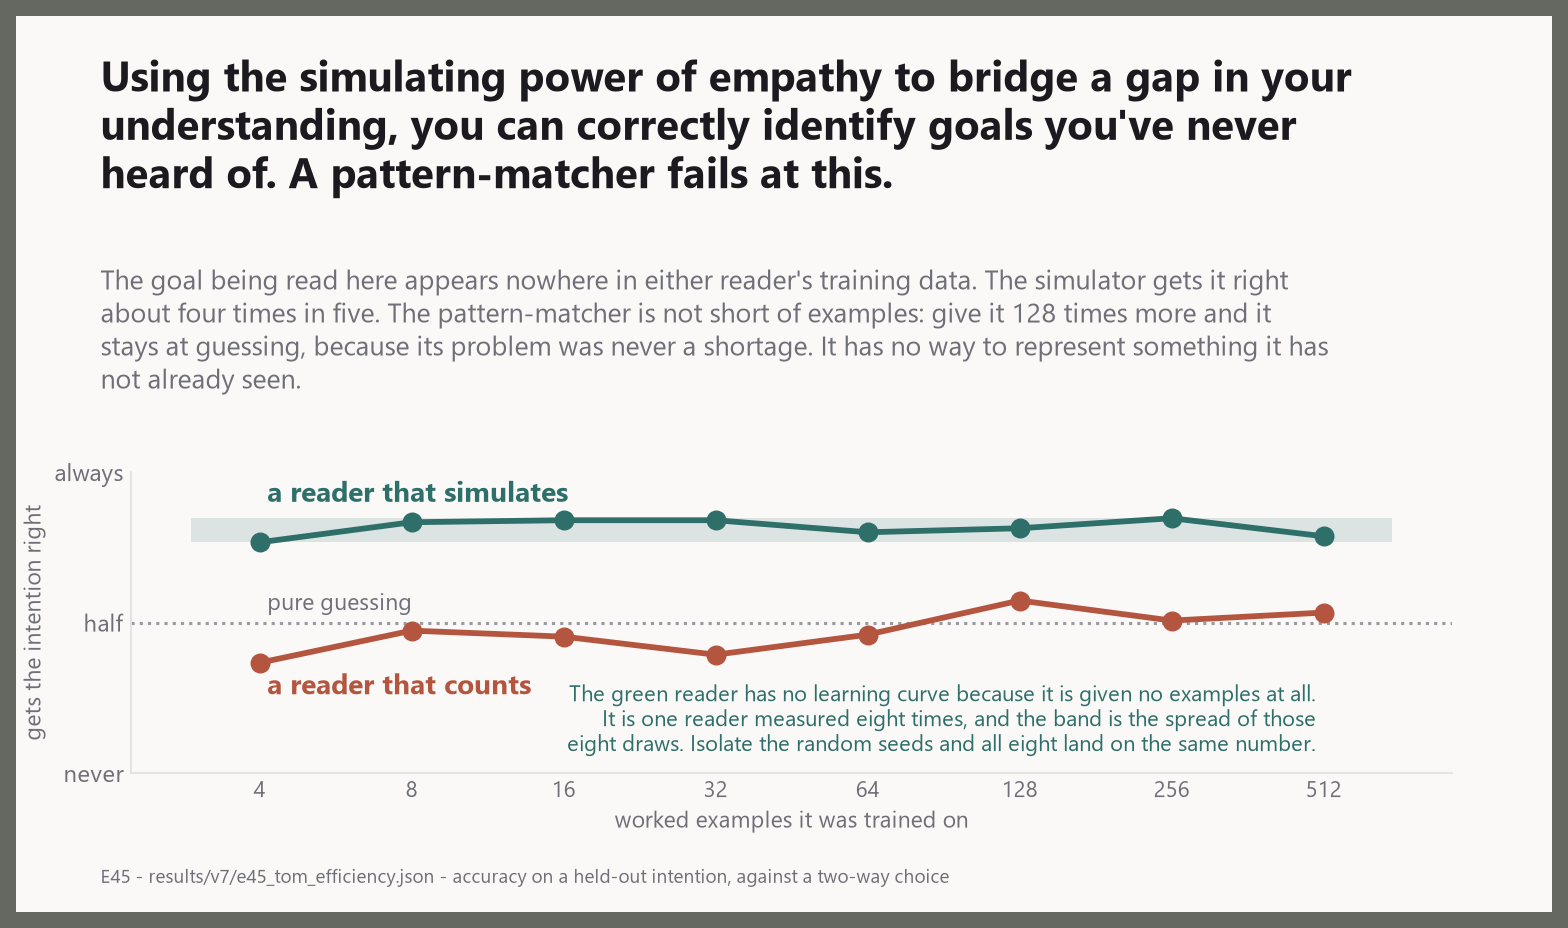
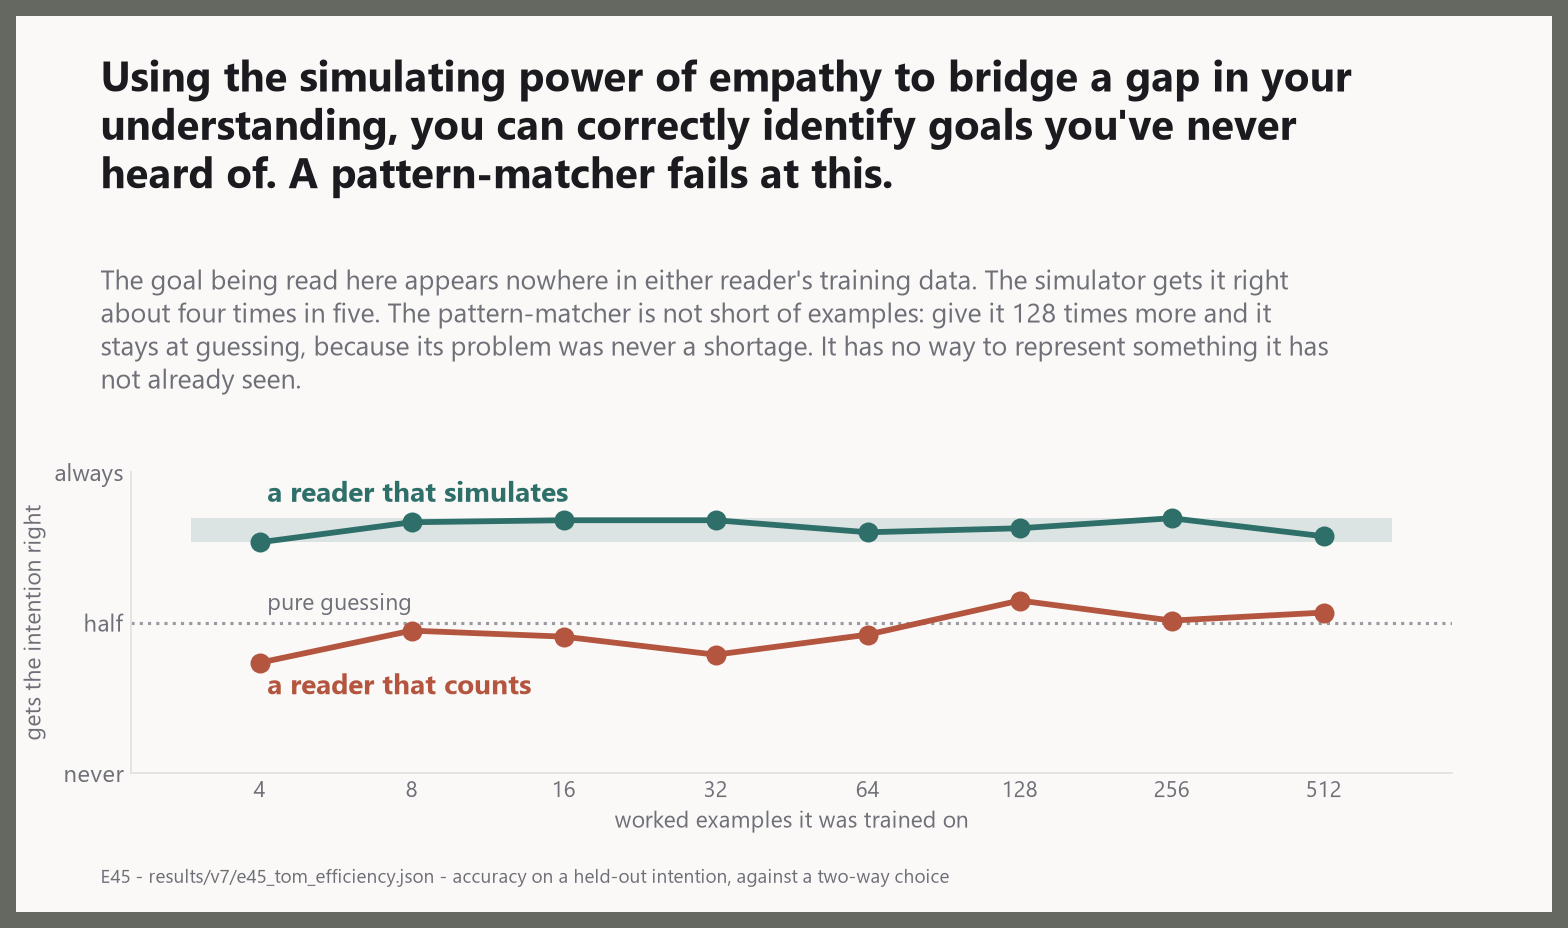
Plate 19 drops its apparatus note, and carousels build to PDF
19 was carrying three lines explaining why the green line is flat against two
lines of actual data. The explanation belongs in the walkthrough and the verdict
file; the plate is the contrast.

scripts/make_carousel_pdf.py bundles a carousel's plates in posting order, one
page per plate at the plate's own size, written outside the repo next to the
outreach guide because a carousel is a posting artefact and not a result.

Changed region(s): [[0.375, 0.7188, 0.8438, 0.8125]]

diff --git a/scripts/make_carousel_pdf.py b/scripts/make_carousel_pdf.py
@@ -1,0 +1,69 @@
+"""Bundle a carousel's plates into one PDF, in posting order.
+
+    python scripts/make_carousel_pdf.py
+
+Writes OUTSIDE the repository, next to OUTREACH_GUIDE.md, because a carousel is a posting artefact
+and not a result. The repo holds the plates; the parent folder holds the things made out of them.
+
+THE PAGE IS THE IMAGE. LinkedIn re-renders an uploaded document page by page, so a page with
+margins around the plate arrives as a plate with margins, and the plate already has its own border.
+Each page is therefore exactly the size of the image it carries, at the image's own resolution.
+"""
+from __future__ import annotations
+
+from pathlib import Path
+
+from PIL import Image
+
+REPO = Path(__file__).resolve().parents[1]
+PLATES = REPO / "figures" / "walkthrough"
+OUT_DIR = REPO.parent                      # the Ghost Scale Simulation folder, outside the repo
+
+CAROUSELS = {
+    "carousel-2-the-case-for-intent": [
+        "11_the_master_cannot_explain",
+        "05_intent_unlocks_the_method",
+        "19_reading_an_unseen_intent",
+        "24_what_its_made_of",
+        "20_rejection_is_not_protection",
+    ],
+    "carousel-1-aimed-at-the-wrong-thing": [
+        "25_a_defence_that_works",
+        "01_false_label_moves_you_wrong",
+        "02_invention_peaks_in_the_middle",
+        "03_legible_and_empty",
+        "22_how_much_is_the_theory",
+        "26_the_arms_race",
+    ],
+}
+
+
+def build(name: str, stems: list[str]) -> Path:
+    pages = []
+    for stem in stems:
+        src = PLATES / f"{stem}.png"
+        if not src.exists():
+            raise SystemExit(f"missing plate: {src}")
+        # Flattened onto white. A PNG with alpha writes a PDF page some viewers render dark.
+        im = Image.open(src).convert("RGBA")
+        page = Image.new("RGB", im.size, (255, 255, 255))
+        page.paste(im, mask=im.split()[3])
+        pages.append(page)
+
+    out = OUT_DIR / f"{name}.pdf"
+    pages[0].save(out, "PDF", resolution=160.0, save_all=True, append_images=pages[1:])
+    return out
+
+
+def main() -> None:
+    for name, stems in CAROUSELS.items():
+        out = build(name, stems)
+        size = out.stat().st_size / 1024
+        print(f"{out.name}: {len(stems)} pages, {size:.0f} KB")
+        for i, s in enumerate(stems, 1):
+            print(f"   {i}. {s}")
+    print(f"\nwrote to {OUT_DIR}")
+
+
+if __name__ == "__main__":
+    main()

diff --git a/scripts/make_walkthrough_plates.py b/scripts/make_walkthrough_plates.py
@@ -831,11 +831,9 @@ def plate_19_zero_shot():
     ax.axhline(chance, color=NEUTRAL, lw=1.4, ls=":", zorder=2)
     annotate(ax, 0.05, band["highest"] + 0.035, "a reader that simulates", color=HUMAN,
              fontsize=12.5, weight="bold")
-    annotate(ax, len(xs) - 1.05, 0.30,
-             "The green reader has no learning curve because it is given no examples at all.\n"
-             "It is one reader measured eight times, and the band is the spread of those\n"
-             "eight draws. Isolate the random seeds and all eight land on the same number.",
-             color=HUMAN, fontsize=10, ha="right", va="top")
+    # The explanation of why the green line has no learning curve lives in the walkthrough and in
+    # the verdict file. On the plate it was three lines of apparatus competing with two lines of
+    # data, and the contrast is the whole point.
     annotate(ax, 0.05, chance + 0.025, "pure guessing", color=MUTED, fontsize=10.5)
     annotate(ax, 0.05, by[xs[0]] - 0.035, "a reader that counts", color=MACHINE,
              fontsize=12.5, weight="bold", va="top")
